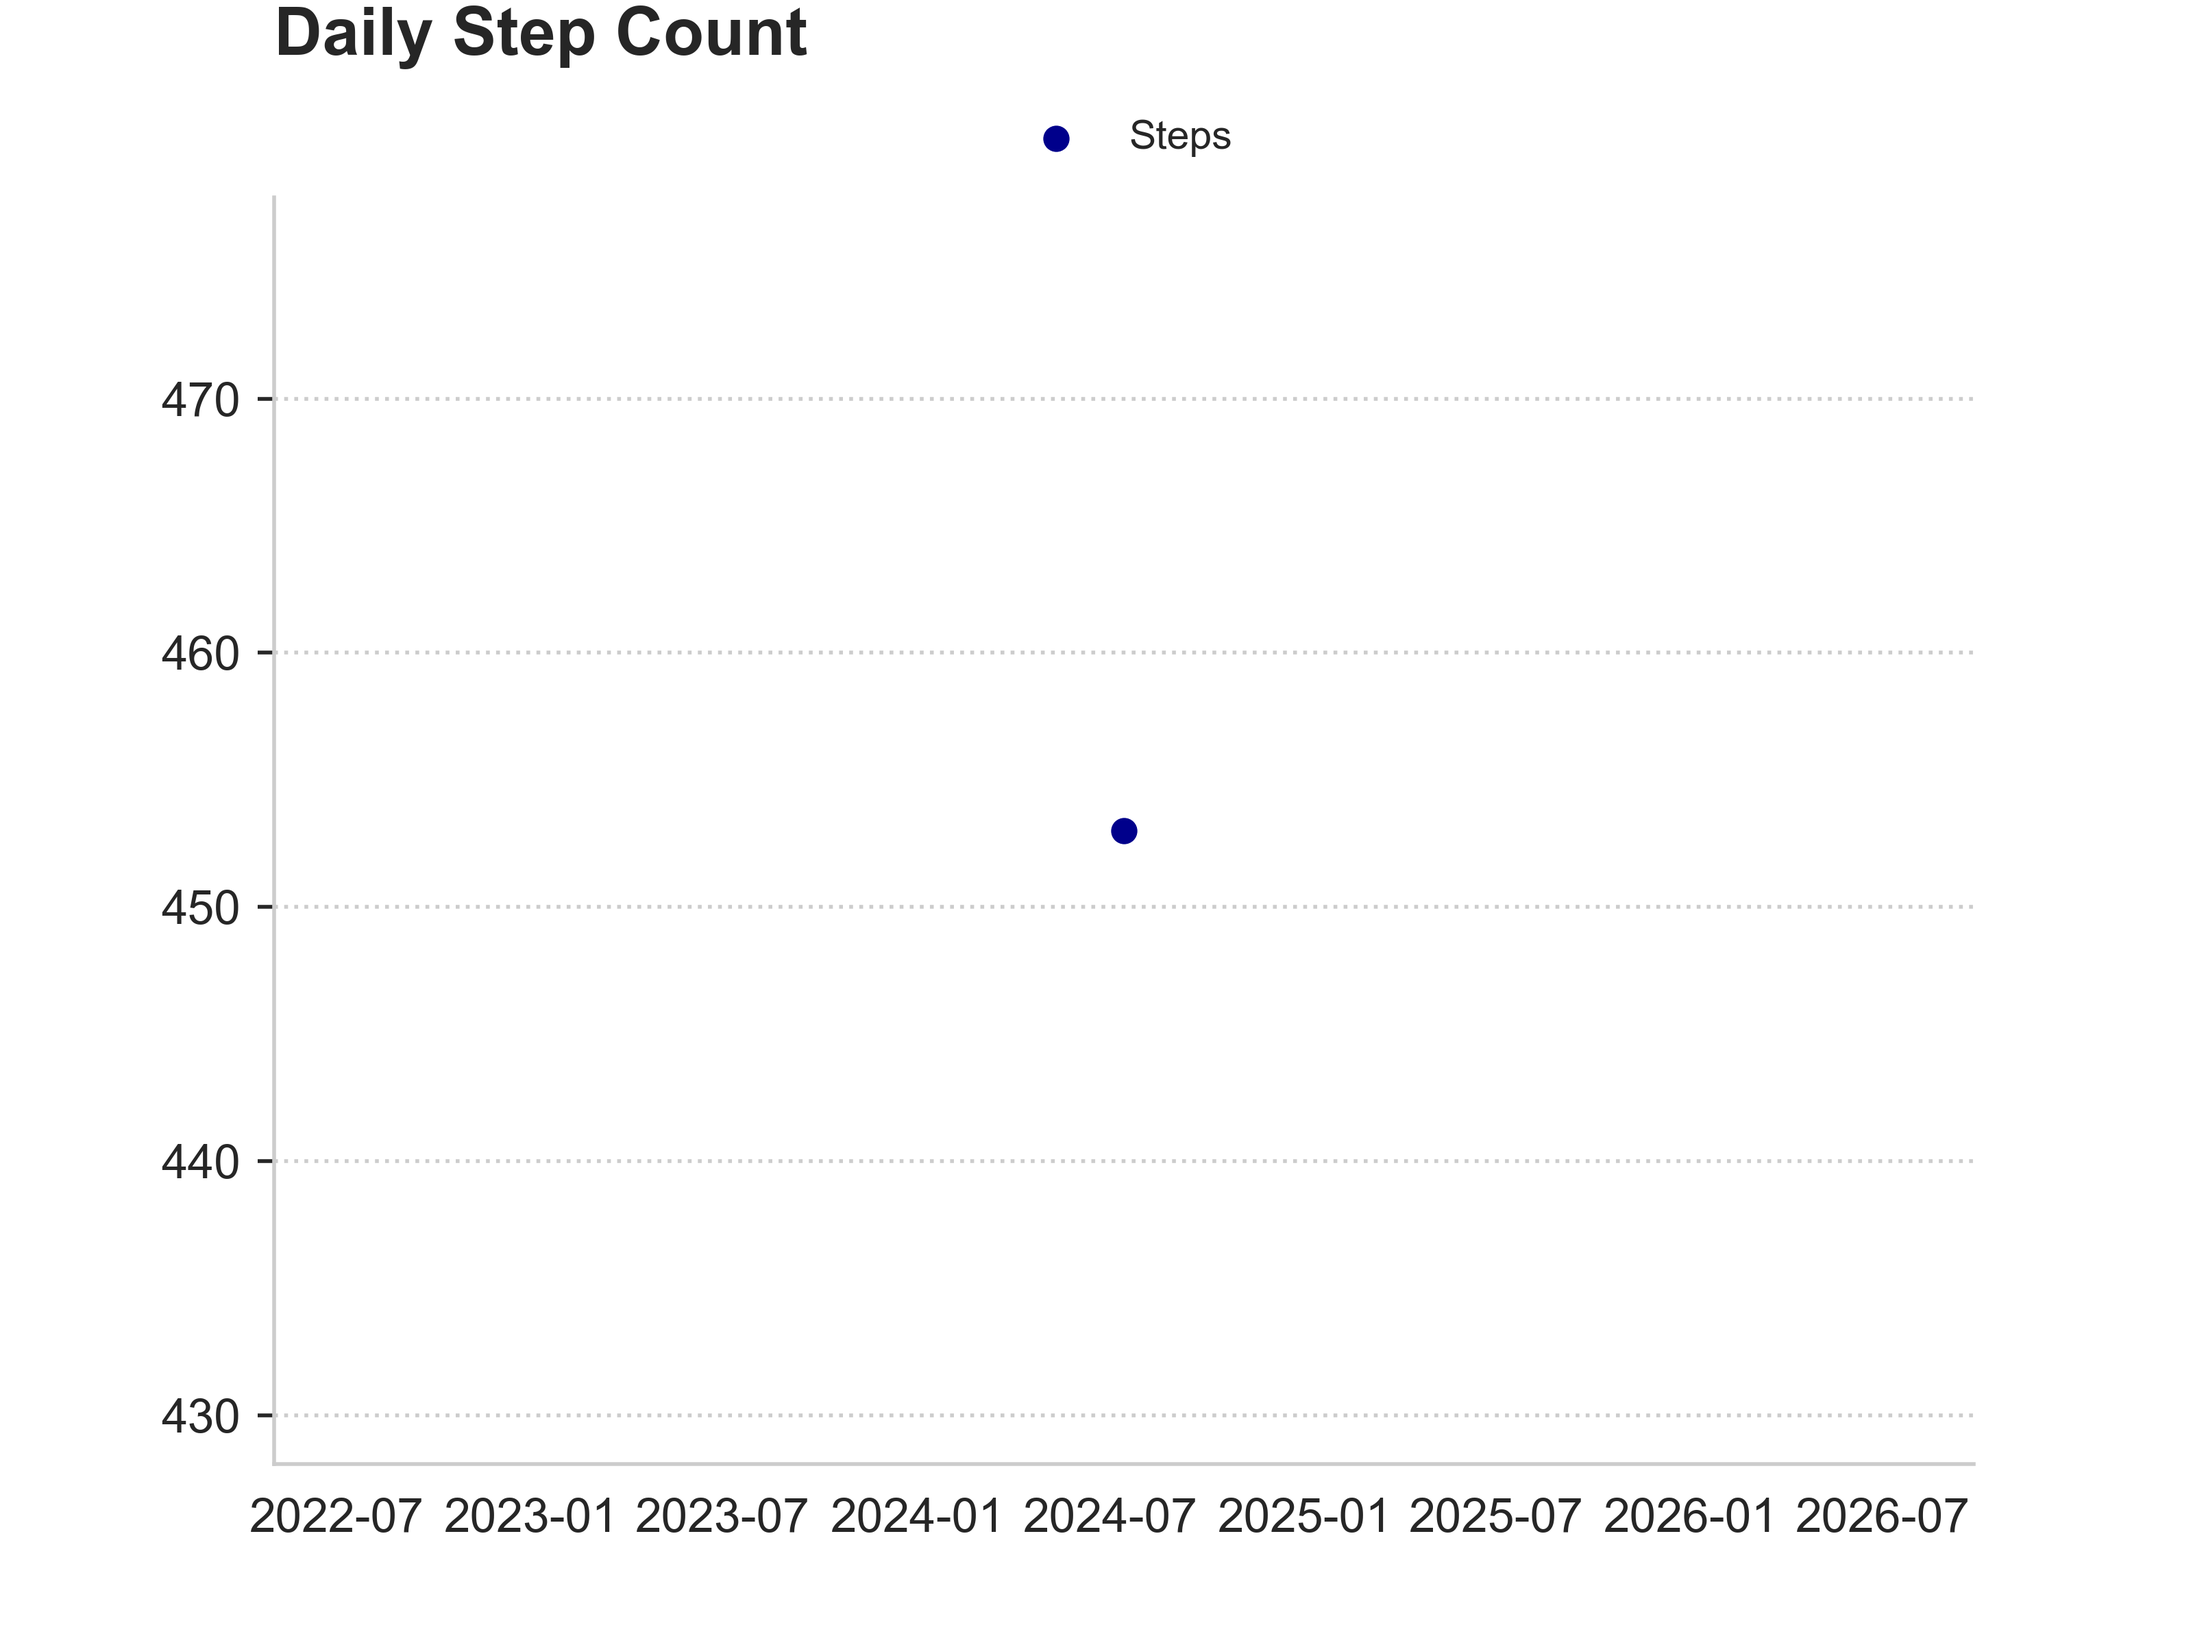
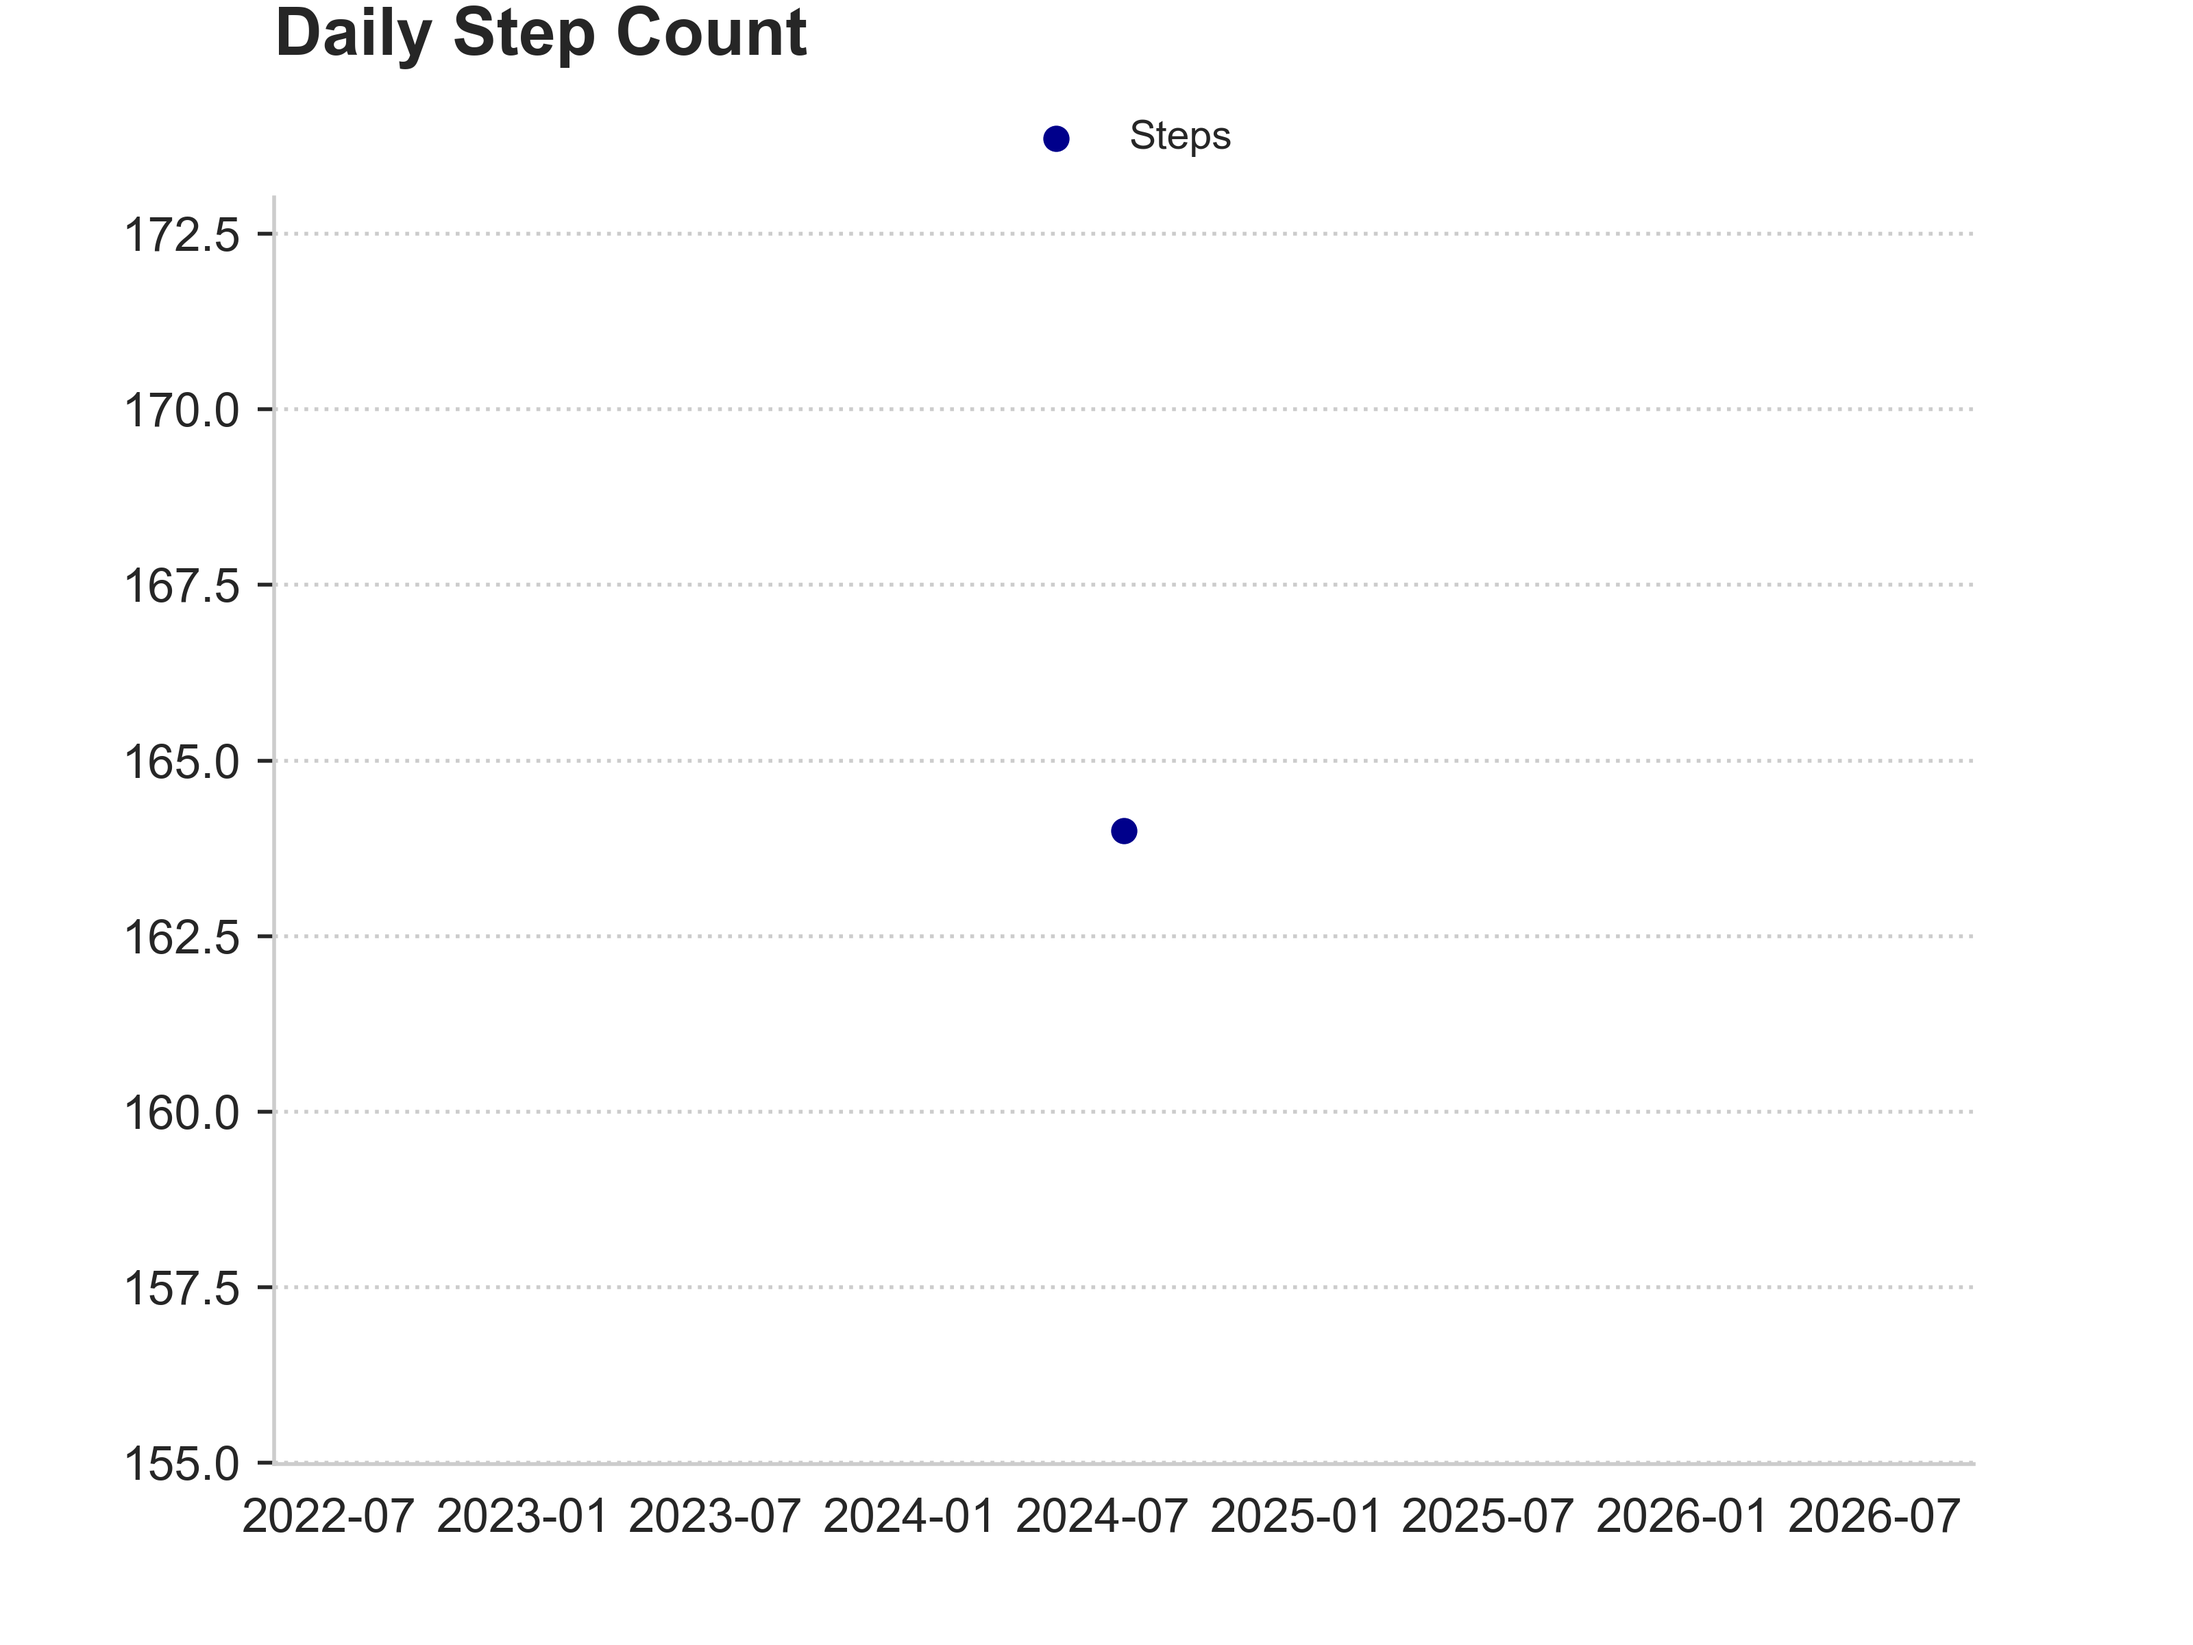
db merging

diff --git a/Withings_ScanWatch/db/database_django.py b/Withings_ScanWatch/db/database_django.py
@@ -67,8 +67,24 @@ class Database_API(object):
             print('GET request failed:', response.status_code)
         
         return(unique_id)
+    
+    #PATCH users table
+    def update_devices_in_user(self, user_uid = None, scale_id = None, scanwatch_id = None, sleepmat_id = None):
+        url= 'http://127.0.0.1:8000/api/user/' + user_uid +'/'
+        print(scale_id)
+        data = {
+             "scale_device": scale_id,
+             "scanwatch_device":scanwatch_id,
+             "sleepmat_device": scanwatch_id
+        }
+        response = requests.patch(url,json=data)
+        if response.status_code == 200:
+             print("PATCH request successful")
+        else:
+             print(f"PATCH request failed with status code {response.status_code}")
 
-    def upload_device_info(self, user = None, dict = None):
+
+    def upload_device_info(self, dict = None):
         url= 'http://127.0.0.1:8000/api/devices/'
         print('****************************')
         print(dict)
@@ -77,7 +93,6 @@ class Database_API(object):
         for j in range(len(dict)):
             
             data ={
-                "user": user['users'][0]['id'],
                 "device_hash": dict[j]['Hash_deviceid'],
                 "device_type": {'Activity Tracker': 'scan_watch', 'Sleep Monitor': 'sleep_mat','Scale':'scale'}.get(dict[j]['Device'], 'default_value'),
                 "mac_address": dict[j]['MAC_address'],
@@ -88,8 +103,8 @@ class Database_API(object):
             #print(response)
 
 
-    def get_device_info(self, user = None):
-        url = 'http://127.0.0.1:8000/api/devices/' + '?username=' + user
+    def get_device_info(self, device_hash = None):
+        url = 'http://127.0.0.1:8000/api/devices/' + '?device_hash=' + device_hash
         response = requests.get(url)
         self.devices_dict = {}
         # Checking the status code of the response
@@ -97,23 +112,14 @@ class Database_API(object):
                 print('GET request successful')
                 # Accessing the response data
                 data = response.json()  # Assuming the response is JSON data
-                #print(self.device_data)
-                for device in data['devices']:
-                    if device['is_active']:
-                        username = device['user']['username']
-                        device_type = device['device_type']
-                        device_id = device['id']
-                        
-                    if username not in self.devices_dict:
-                         self.devices_dict[username] = {}
-                        
-                    self.devices_dict[username][device_type] = device_id
+                print(data)
                 
         else:
             # Unsuccessful response
             print('GET request failed:', response.status_code)
-        
-        return(self.devices_dict)
+
+        extracted_id = {device['device_type']: device['id'] for device in data['devices']}
+        return(extracted_id)
     
     def organized_dict(self, original_dict):
         converted_dict = {}

diff --git a/Withings_ScanWatch/Devices_OAuth2flow.py b/Withings_ScanWatch/Devices_OAuth2flow.py
@@ -121,9 +121,8 @@ class Devices_OAuth2flow(object):
 
 		self.db_id = self.database_api.get_unique_id(id_user = self.id_user)
 		self.database.SM.set_User({"registered" : True, "id": self.id_user})
+		self.uuid_db = self.db_id['users'][0]['id']
 
-		print('***************************')
-		print(self.db_id)
 
 
 		
@@ -324,11 +323,17 @@ class Devices_OAuth2flow(object):
 
 
 	def register_devices(self):
-		# This function register the device information. 
+		# This function register the device information.
+		ids_list = [] 
 		devices = self.api.user_get_device()
 		devices = devices['devices']
-		
 
+		values = {
+			'scale': None,
+			'sleep_mat': None,
+			'scan_watch': None
+			}
+		
 		filtered_data = [{'Device': d['type'], 'Hash_deviceid': d['hash_deviceid'], 'MAC_address': d['mac_address']} for d in devices]
 		
 		type_d = [i['type'] for i in devices]
@@ -337,7 +342,18 @@ class Devices_OAuth2flow(object):
 		# Devices to csv database files
 		self.database.SM.load_SensorInfo(sensor = type_d, hash_deviceid = hash_deviceid, MAC_address = MAC_address)
 		# Devices to API database
-		self.database_api.upload_device_info(user = self.db_id, dict = filtered_data)
+		self.database_api.upload_device_info(dict = filtered_data)
+		for i in range(len(hash_deviceid)):
+			ids_devices = self.database_api.get_device_info(device_hash = hash_deviceid[i])
+			ids_list.append(ids_devices)
+
+		self.database_api.get_unique_id()
+		
+		for item in ids_list:
+			values.update(item)
+
+		self.database_api.update_devices_in_user(user_uid = self.uuid_db, scale_id = values['scale'],
+										    scanwatch_id = values['scan_watch'], sleepmat_id = values['sleep_mat'])
 
 	def create_nonce(self):
 

diff --git a/database_cvs_api.py b/database_cvs_api.py
@@ -35,7 +35,7 @@ class DatabaseServer_csv(object):
         role = 'study-participant'
         password_hash = 'NONEYET'
 
-        custom_headers = ['username', 'role', 'password_hash']
+        custom_headers = ['username', 'role', 'password_hash', '']
 
         # Add new columns with constum headers
         df = pd.DataFrame(df, columns=['Id', 'Date of Registration'] + custom_headers)
@@ -60,6 +60,9 @@ class DatabaseServer_csv(object):
                 print('Data updated successfully')
             else:
                 print('Failed to update data:', response.text)
+
+
+    
 
 
         
